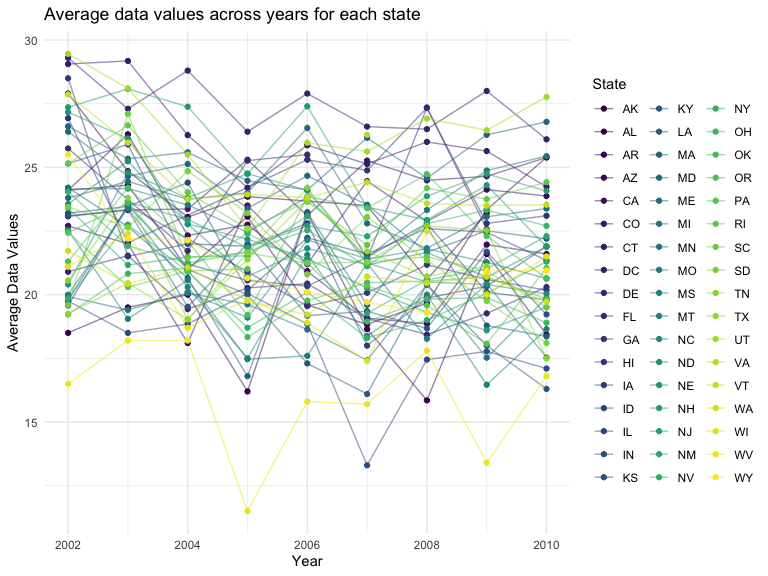
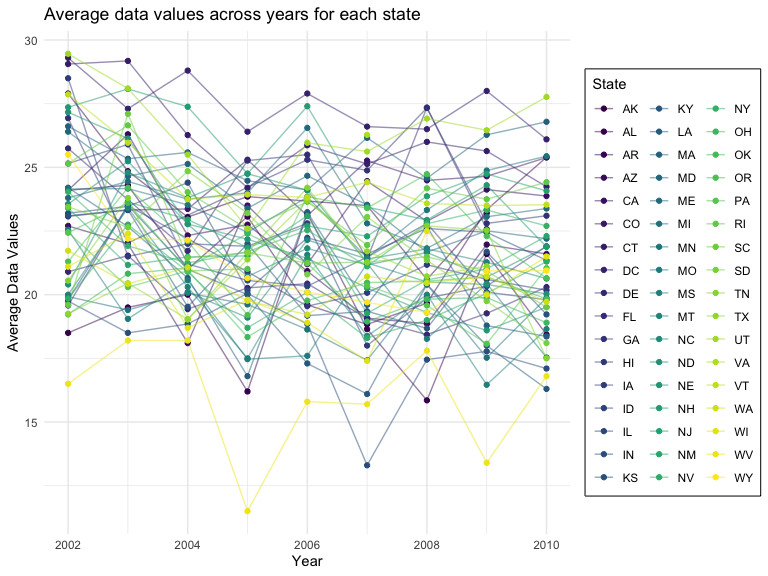
problem 3 friendly read table

Changed region(s): [[0.75, 0.8438, 1.0, 0.875], [0.7812, 0.0938, 0.9688, 0.125]]

diff --git a/p8105_hw3_wz2630.md b/p8105_hw3_wz2630.md
@@ -214,7 +214,8 @@ excellent_responses |>
   labs(x = "Year", 
        y = "Average Data Values", 
        title = "Average data values across years for each state") + 
-  theme(legend.position = "right")
+  theme(legend.position = "right",
+        legend.box.background = element_rect())
 ```
 
 <img src="p8105_hw3_wz2630_files/figure-gfm/unnamed-chunk-10-1.png" width="90%" />
@@ -233,7 +234,8 @@ brfss |>
   labs(x = "Response", 
        y = "Data Value",
        title = "Distribution of responses among locations in NY State (2006 and 2010)") + 
-  theme(legend.position = "none")
+  theme(legend.position = "none",
+        panel.spacing = unit(1, "lines"))
 ```
 
 <img src="p8105_hw3_wz2630_files/figure-gfm/unnamed-chunk-11-1.png" width="90%" />
@@ -276,18 +278,46 @@ accel =
 Merger demographic and accelerometer datasets:
 
 ``` r
-nhanes_accelerometer = 
+nhanes = 
   inner_join(covar, accel, by = "seqn")
 ```
 
 Factor variables and rename
 
 ``` r
-nhanes_accelerometer$sex = factor(nhanes_accelerometer$sex, 
+nhanes$sex = factor(nhanes$sex, 
                                   levels = c("1", "2"),
                                   labels = c("male", "female"))
 
-nhanes_accelerometer$education = factor(nhanes_accelerometer$education, 
+nhanes$education = factor(nhanes$education, 
                                   levels = c("1", "2", "3"),
                                   labels = c("less than high school", "high school equivalent", "more than high school"))
 ```
+
+Encode data with reasonable variable classes
+
+``` r
+nhanes$seqn = as.integer(nhanes$seqn)
+nhanes$age = as.integer(nhanes$age)
+nhanes$bmi = as.integer(nhanes$bmi)
+```
+
+Produce a reader-friendly table for the number of men and women in each
+education category, and create a visualization of the age distributions
+for men and women in each education category. Comment on these items.
+
+``` r
+nhanes |> 
+  group_by(sex, education) |> 
+  summarize(count = n()) |> 
+  pivot_wider(names_from = education, values_from = count) |> 
+  knitr::kable(digits = 1)
+```
+
+    ## `summarise()` has grouped output by 'sex'. You can override using the `.groups`
+    ## argument.
+
+| sex    | less than high school | high school equivalent | more than high school |
+|:-------|----------------------:|-----------------------:|----------------------:|
+| male   |                    27 |                     35 |                    56 |
+| female |                    28 |                     23 |                    59 |
